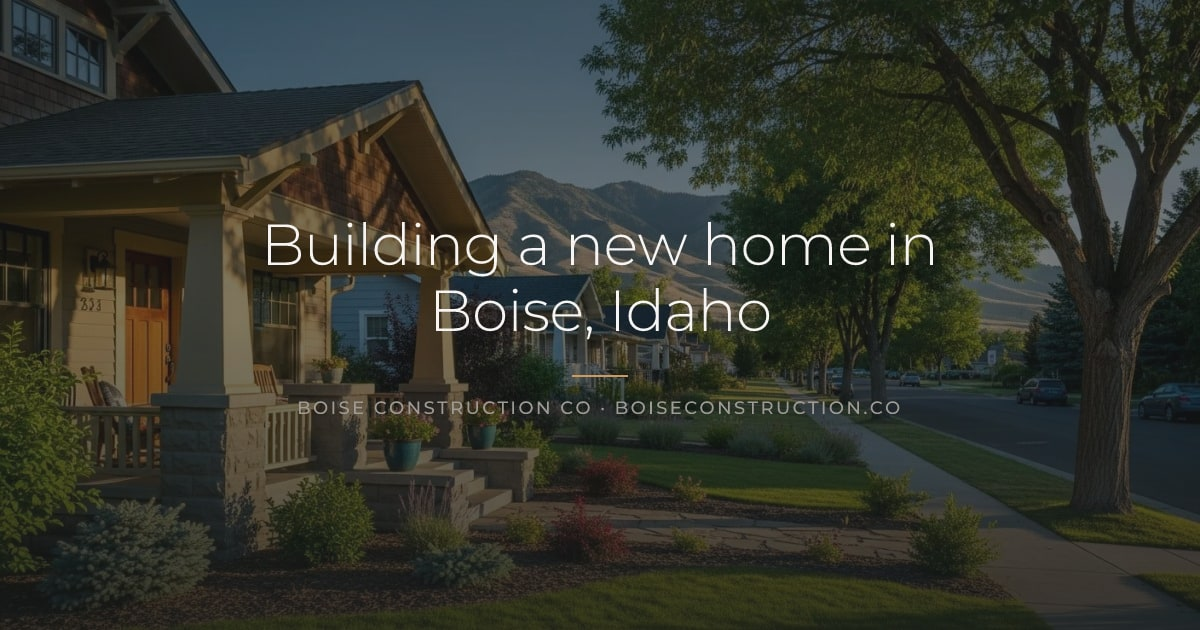
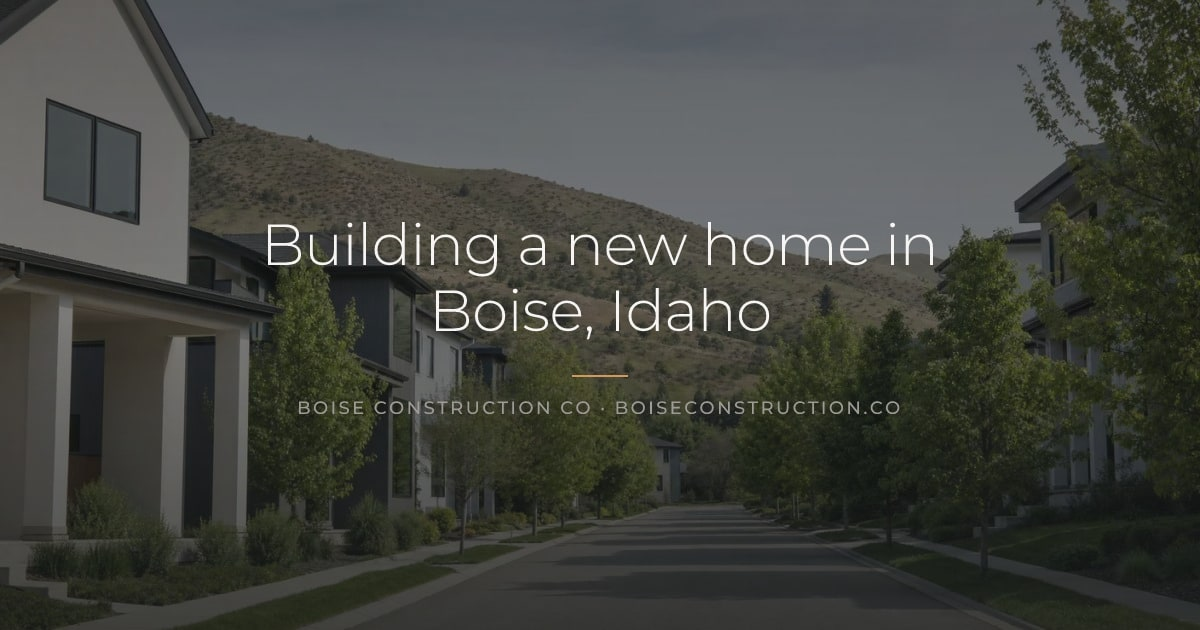
Share cards and alt text for the replaced house photos
Follows 017404c1, which replaced 13 photos that showed Craftsman or
lodge-style houses (owner direction, 13 November 2026).

Share cards: the 9 blog and guide cards that still showed an old photo
are regenerated with scripts/generate-og-images.mjs from each post's
current hero photo. File names, 1200x630 size, overlay, branding and the
title text already on each card are unchanged; only the background
photo differs. The other 43 cards are untouched.

Alt text: every description of a replaced photo now says what the new
photo shows, with no style or location claim the photo cannot support.
shared/imageAlts.ts (9 entries), the blog image registry source and its
generated file (9 library entries, 10 registry entries) and the custom
home builder service scene. The word Craftsman no longer describes any
replaced photo.

docs/service-image-provenance-20261026.json carries the new file hash
and alt for the service scene and keeps the earlier record under
"supersedes". The origin of the replacement photo is left for the owner
to record.

Claude-Session: https://claude.ai/code/session_017rQiZyN54jFFUDicQdeh2v

diff --git a/shared/blogImageRegistry.ts b/shared/blogImageRegistry.ts
@@ -25,7 +25,7 @@ export const BLOG_IMAGE_REGISTRY: Record<string, BlogImageEntry> = {
   },
   'adu-cost-boise': {
     hero: '/images/construction/semi-custom-home.webp',
-    alt: 'Newly built single-story semi-custom home on a serviced subdivision lot in Meridian, Idaho',
+    alt: 'Single-story blue-gray house with white trim, a small covered entry and an attached garage',
     topicTags: ["adu","accessory dwelling unit","new construction","cost","boise"],
     source: 'construction',
   },
@@ -49,7 +49,7 @@ export const BLOG_IMAGE_REGISTRY: Record<string, BlogImageEntry> = {
   },
   'build-vs-buy-boise': {
     hero: '/images/construction/build-vs-buy-comparison.webp',
-    alt: 'An existing finished resale home with a yard sign next to a new home under wood framing on a Treasure Valley subdivision street',
+    alt: 'A finished two-story house beside a two-story house still in sheathing and house wrap, with dry hills behind',
     topicTags: ["build vs buy","planning","treasure valley","cost","home"],
     source: 'construction',
   },
@@ -181,7 +181,7 @@ export const BLOG_IMAGE_REGISTRY: Record<string, BlogImageEntry> = {
   },
   'production-vs-custom-home-builder': {
     hero: '/images/construction/new-neighborhood-street.webp',
-    alt: 'Street of recently finished new-construction homes with young trees and fresh sidewalks in a Treasure Valley subdivision',
+    alt: 'Street of new two-story homes in white, gray and black siding with young trees, a framed house at the far end and foothills behind',
     topicTags: ["choosing a builder","custom homes","boise","new construction","choosing"],
     source: 'construction',
   },
@@ -199,7 +199,7 @@ export const BLOG_IMAGE_REGISTRY: Record<string, BlogImageEntry> = {
   },
   'single-story-vs-two-story-home': {
     hero: '/images/construction/two-story-home-exterior.webp',
-    alt: 'Newly built two-story craftsman home with stone wainscot and a covered front porch on a Meridian, Idaho lot',
+    alt: 'Two-story gray house with horizontal siding, a dark panel accent, a covered entry and an attached garage',
     topicTags: ["floor plans","home design","cost","new construction","treasure valley"],
     source: 'construction',
   },
@@ -259,37 +259,37 @@ export const BLOG_IMAGE_REGISTRY: Record<string, BlogImageEntry> = {
   },
   'treasure-valley-home-building-guide': {
     hero: '/images/construction/new-neighborhood-street.webp',
-    alt: 'Street of recently finished new-construction homes with young trees and fresh sidewalks in a Treasure Valley subdivision',
+    alt: 'Street of new two-story homes in white, gray and black siding with young trees, a framed house at the far end and foothills behind',
     topicTags: ["treasure valley","new construction","ada county","canyon county","home building"],
     source: 'construction',
   },
   'boise-home-building-guide': {
     hero: '/images/areas/boise.webp',
-    alt: 'Established Boise, Idaho neighborhood of craftsman homes with covered porches and the Boise foothills rising behind the street',
+    alt: 'Street of two-story homes in light stucco and dark siding, lined with young trees, with grassy foothills behind',
     topicTags: ["boise","idaho","new construction","treasure"],
     source: 'construction',
   },
   'meridian-home-building-guide': {
     hero: '/images/areas/meridian.webp',
-    alt: 'Newly built craftsman two-story home lit at dusk on a landscaped subdivision lot in Meridian, Idaho',
+    alt: 'Two-story house with white stucco, dark siding, an attached garage and a front lawn',
     topicTags: ["meridian","idaho","new construction","treasure"],
     source: 'construction',
   },
   'eagle-home-building-guide': {
     hero: '/images/areas/eagle.webp',
-    alt: 'Luxury custom home on a landscaped Eagle, Idaho acreage lot at sunset with the foothills in the distance',
+    alt: 'Single-story white stucco house with dark metal roofs and lit windows at dusk, set in gravel and ornamental grasses',
     topicTags: ["eagle","idaho","new construction","treasure"],
     source: 'construction',
   },
   'kuna-home-building-guide': {
     hero: '/images/areas/kuna.webp',
-    alt: 'Modern farmhouse custom home on rural Kuna, Idaho acreage bordered by sagebrush and open farmland',
+    alt: 'Single-story gray stucco house with a dark metal roof and a wood-clad entry on open sagebrush land, with mountains behind',
     topicTags: ["kuna","idaho","new construction","treasure"],
     source: 'construction',
   },
   'star-home-building-guide': {
     hero: '/images/areas/star.webp',
-    alt: 'Riverfront custom home in Star, Idaho with a lawn running down to the Boise River and shade trees along the bank',
+    alt: 'Two-story house with dark vertical siding and a covered patio on a lawn beside a tree-lined river',
     topicTags: ["star","idaho","new construction","treasure"],
     source: 'construction',
   },

diff --git a/shared/imageAlts.ts b/shared/imageAlts.ts
@@ -15,7 +15,7 @@ const ALTS: Record<string, string> = {
   "/family/construction-custom-home-exterior.webp":
     "Mountain-modern home with charcoal stucco, ledgestone and a dark metal roof",
   "/images/construction/semi-custom-home.webp":
-    "Single-story gray house with stone-wrapped porch columns, a covered entry and a garage",
+    "Single-story blue-gray house with white trim, a small covered entry and an attached garage",
   "/images/construction/home-under-framing.webp":
     "Wood-framed house with roof trusses in place and stacked lumber on a gravel lot",
   "/images/construction/foundation-and-excavation.webp":
@@ -59,19 +59,19 @@ const ALTS: Record<string, string> = {
   "/images/budget-kitchen-detail.webp":
     "Close-up of a white marble waterfall countertop over a light oak Shaker cabinet door",
   "/family/p5-p5-hero.webp":
-    "Stone and stucco house with a metal roof at dusk, with foothills behind",
+    "House with wood and charcoal siding and a dark metal roof on a hillside at dusk, with valley lights below",
   "/images/areas/boise.webp":
-    "Craftsman bungalow with a covered porch on a tree-lined street, with foothills behind",
+    "Street of two-story homes in light stucco and dark siding, lined with young trees, with grassy foothills behind",
   "/images/areas/meridian.webp":
-    "Houses with light siding and dark roofs along a curving street lined with young trees",
+    "Two-story house with white stucco, dark siding, an attached garage and a front lawn",
   "/images/areas/eagle.webp":
-    "Large stone house with a long curving driveway at sunset",
+    "Single-story white stucco house with dark metal roofs and lit windows at dusk, set in gravel and ornamental grasses",
   "/images/areas/nampa.webp":
     "Single-story red brick ranch house with a wide lawn and young trees",
   "/images/areas/kuna.webp":
-    "Single-story stone and board-and-batten house with a metal roof among sagebrush",
+    "Single-story gray stucco house with a dark metal roof and a wood-clad entry on open sagebrush land, with mountains behind",
   "/images/areas/star.webp":
-    "House with wood and stone siding on a lawn beside a tree-lined river",
+    "Two-story house with dark vertical siding and a covered patio on a lawn beside a tree-lined river",
   "/images/areas/middleton.webp":
     "A two-story house with light siding and a dark roof beside a lawn and sidewalk",
   "/images/areas/caldwell.webp":
@@ -87,7 +87,7 @@ const ALTS: Record<string, string> = {
   "/images/projects/eagle-farmhouse-outdoor.webp":
     "Covered outdoor patio with wood ceiling and black-framed doors facing the foothills",
   "/images/projects/meridian-ranch-exterior.webp":
-    "Single-story gray ranch with stone-wrapped porch columns and a concrete driveway",
+    "Single-story house with dark horizontal siding, a light panel accent and an attached garage on a lawn",
   "/images/projects/meridian-ranch-living.webp":
     "Bright living room with light floors, soft gray walls, and a stone fireplace",
   "/images/projects/meridian-ranch-kitchen.webp":
@@ -121,7 +121,7 @@ const ALTS: Record<string, string> = {
   "/family/p5-p5-adu.webp":
     "Finished modern ADU with standing-seam metal roof beside a Treasure Valley home",
   "/images/projects/boise-craftsman-exterior.webp":
-    "Two-story sage craftsman with cedar-shake gables and stacked stone",
+    "Two-story white stucco house with a dark siding accent, a wood-clad covered entry and an attached garage",
   "/images/projects/boise-craftsman-foyer.webp":
     "Two-story foyer with a wood staircase, cream walls, and natural light from sidelights",
   "/images/projects/boise-craftsman-kitchen.webp":

diff --git a/scripts/generate-blog-image-registry.ts b/scripts/generate-blog-image-registry.ts
@@ -34,7 +34,7 @@ const LIBRARY = {
   },
   semiCustom: {
     src: img('semi-custom-home'),
-    alt: 'Newly built single-story semi-custom home on a serviced subdivision lot in Meridian, Idaho',
+    alt: 'Single-story blue-gray house with white trim, a small covered entry and an attached garage',
   },
   framing: {
     src: img('home-under-framing'),
@@ -98,11 +98,11 @@ const LIBRARY = {
   },
   twoStory: {
     src: img('two-story-home-exterior'),
-    alt: 'Newly built two-story craftsman home with stone wainscot and a covered front porch on a Meridian, Idaho lot',
+    alt: 'Two-story gray house with horizontal siding, a dark panel accent, a covered entry and an attached garage',
   },
   subdivision: {
     src: img('new-neighborhood-street'),
-    alt: 'Street of recently finished new-construction homes with young trees and fresh sidewalks in a Treasure Valley subdivision',
+    alt: 'Street of new two-story homes in white, gray and black siding with young trees, a framed house at the far end and foothills behind',
   },
   greatRoom: {
     src: img('great-room-evening'),
@@ -142,7 +142,7 @@ const LIBRARY = {
   },
   buildVsBuy: {
     src: img('build-vs-buy-comparison'),
-    alt: 'An existing finished resale home with a yard sign next to a new home under wood framing on a Treasure Valley subdivision street',
+    alt: 'A finished two-story house beside a two-story house still in sheathing and house wrap, with dry hills behind',
   },
   permitPlacard: {
     src: img('building-permit-placard'),
@@ -170,23 +170,23 @@ const LIBRARY = {
   },
   boiseArea: {
     src: area('boise'),
-    alt: 'Established Boise, Idaho neighborhood of craftsman homes with covered porches and the Boise foothills rising behind the street',
+    alt: 'Street of two-story homes in light stucco and dark siding, lined with young trees, with grassy foothills behind',
   },
   meridianArea: {
     src: area('meridian'),
-    alt: 'Newly built craftsman two-story home lit at dusk on a landscaped subdivision lot in Meridian, Idaho',
+    alt: 'Two-story house with white stucco, dark siding, an attached garage and a front lawn',
   },
   eagleArea: {
     src: area('eagle'),
-    alt: 'Luxury custom home on a landscaped Eagle, Idaho acreage lot at sunset with the foothills in the distance',
+    alt: 'Single-story white stucco house with dark metal roofs and lit windows at dusk, set in gravel and ornamental grasses',
   },
   kunaArea: {
     src: area('kuna'),
-    alt: 'Modern farmhouse custom home on rural Kuna, Idaho acreage bordered by sagebrush and open farmland',
+    alt: 'Single-story gray stucco house with a dark metal roof and a wood-clad entry on open sagebrush land, with mountains behind',
   },
   starArea: {
     src: area('star'),
-    alt: 'Riverfront custom home in Star, Idaho with a lawn running down to the Boise River and shade trees along the bank',
+    alt: 'Two-story house with dark vertical siding and a covered patio on a lawn beside a tree-lined river',
   },
   middletonArea: {
     src: area('middleton'),

diff --git a/shared/serviceSceneImages.ts b/shared/serviceSceneImages.ts
@@ -1,3 +1,3 @@
 export const SERVICE_SCENES: Record<string, {src: string; alt: string}> = {
-  'custom-home-builder': {src: '/images/service-scenes/home-exterior.webp', alt: "Stone and pale stucco home with dark pitched roofs, a covered entry and natural landscaping"},
+  'custom-home-builder': {src: '/images/service-scenes/home-exterior.webp', alt: "Two-story house with pale stucco, dark siding and a dark metal roof at dusk, with boulders and grasses in front and a dry hillside behind"},
 };
